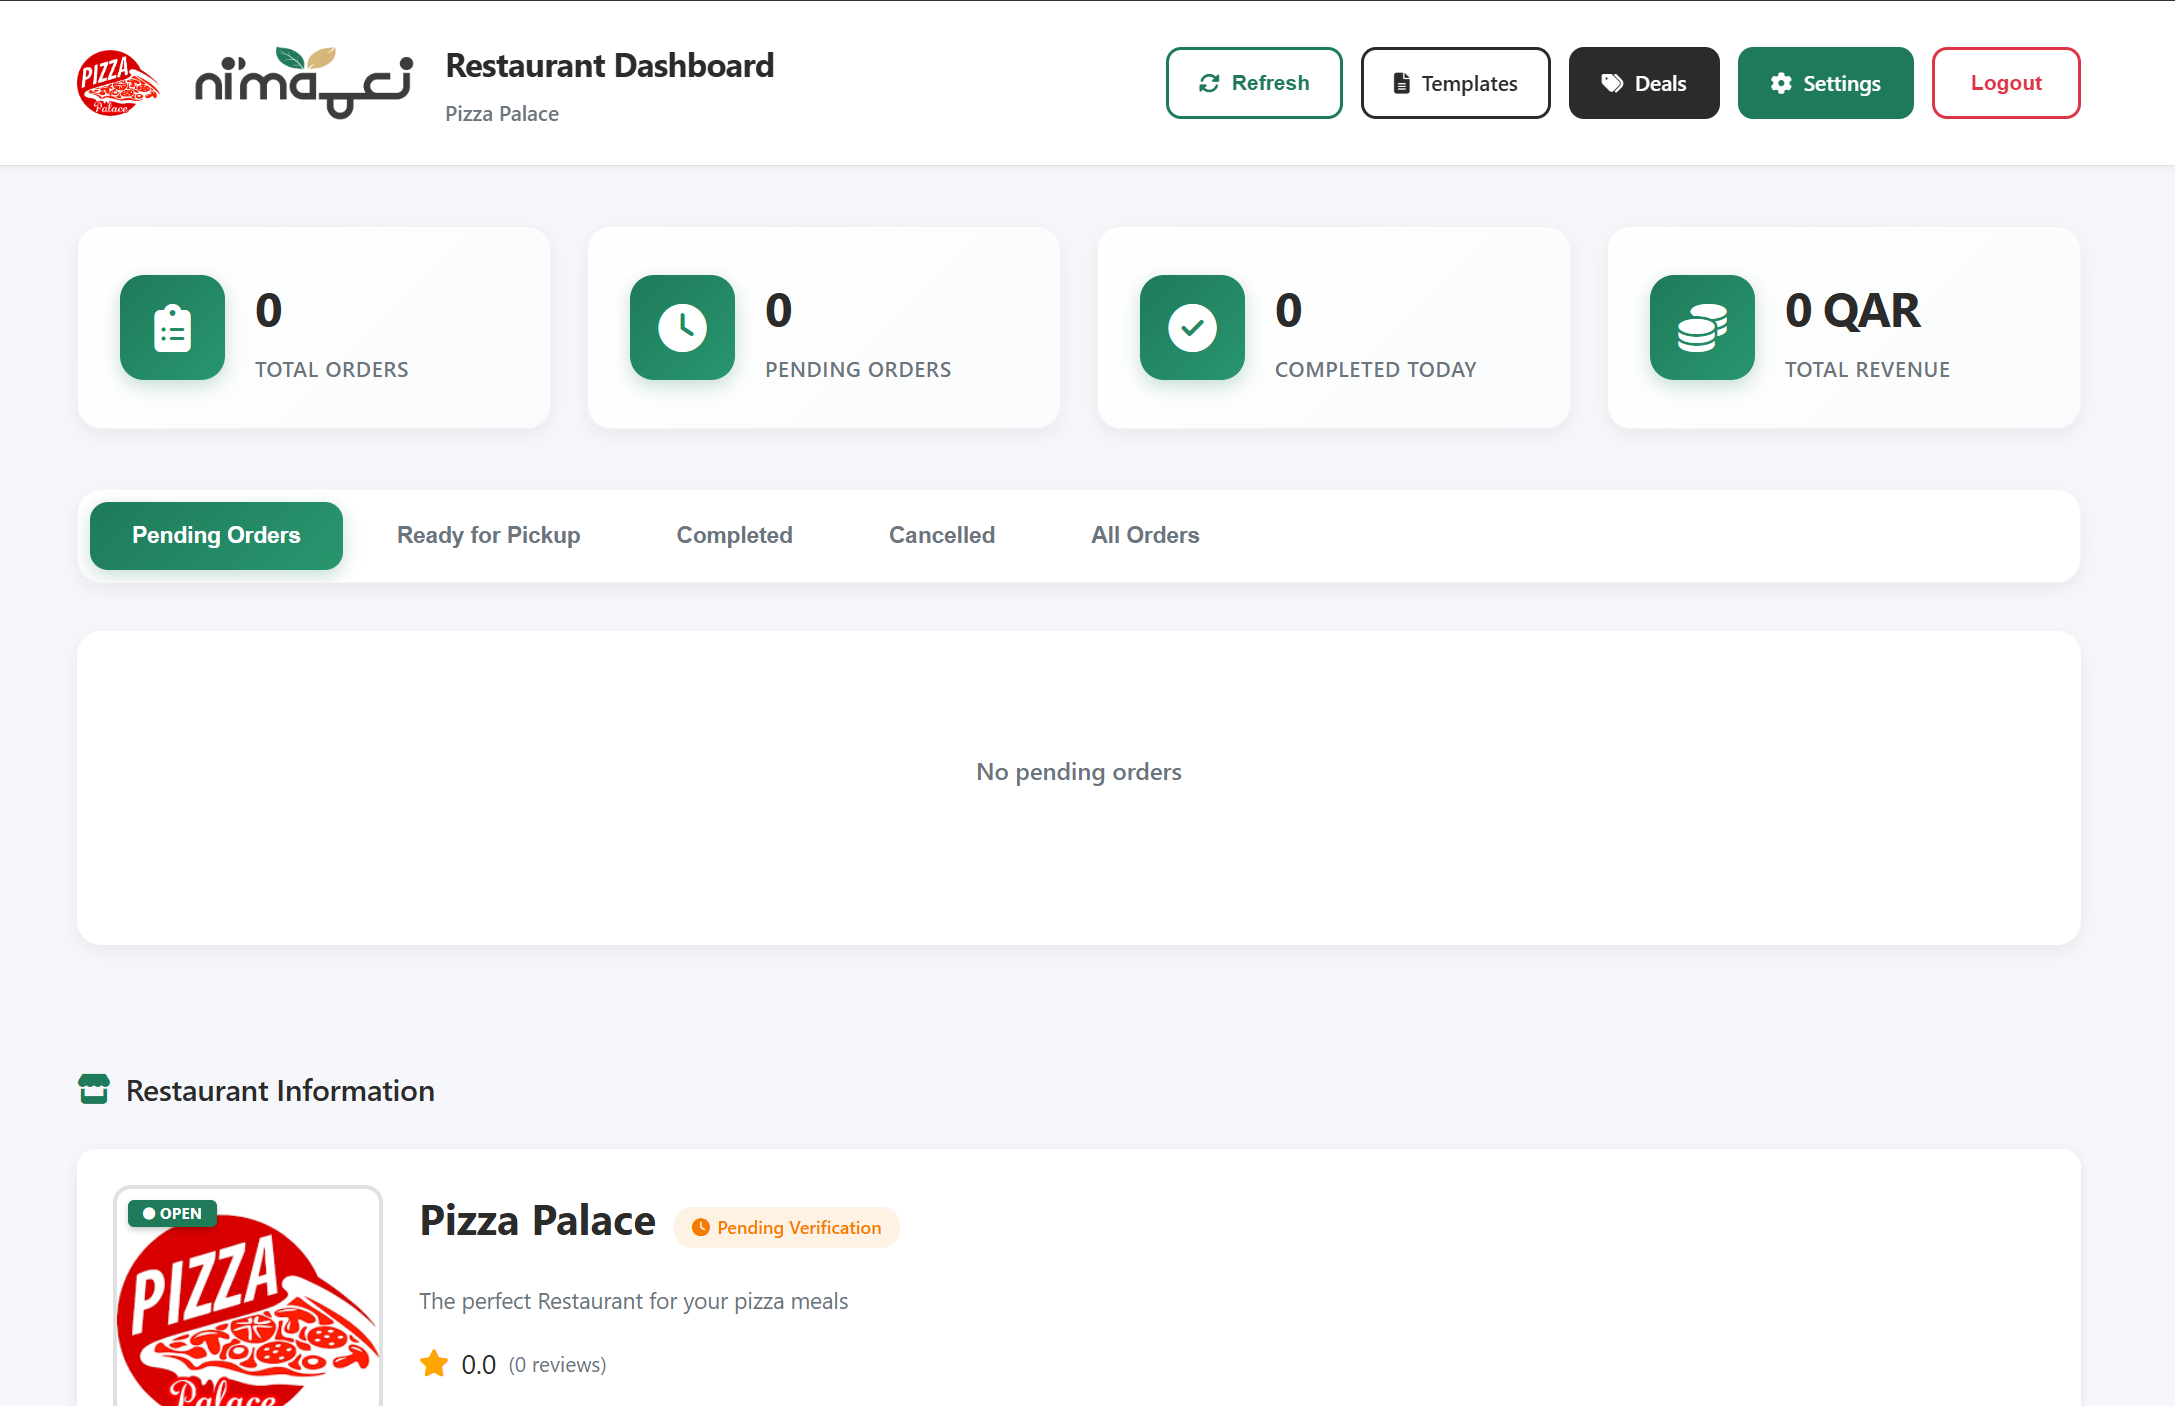
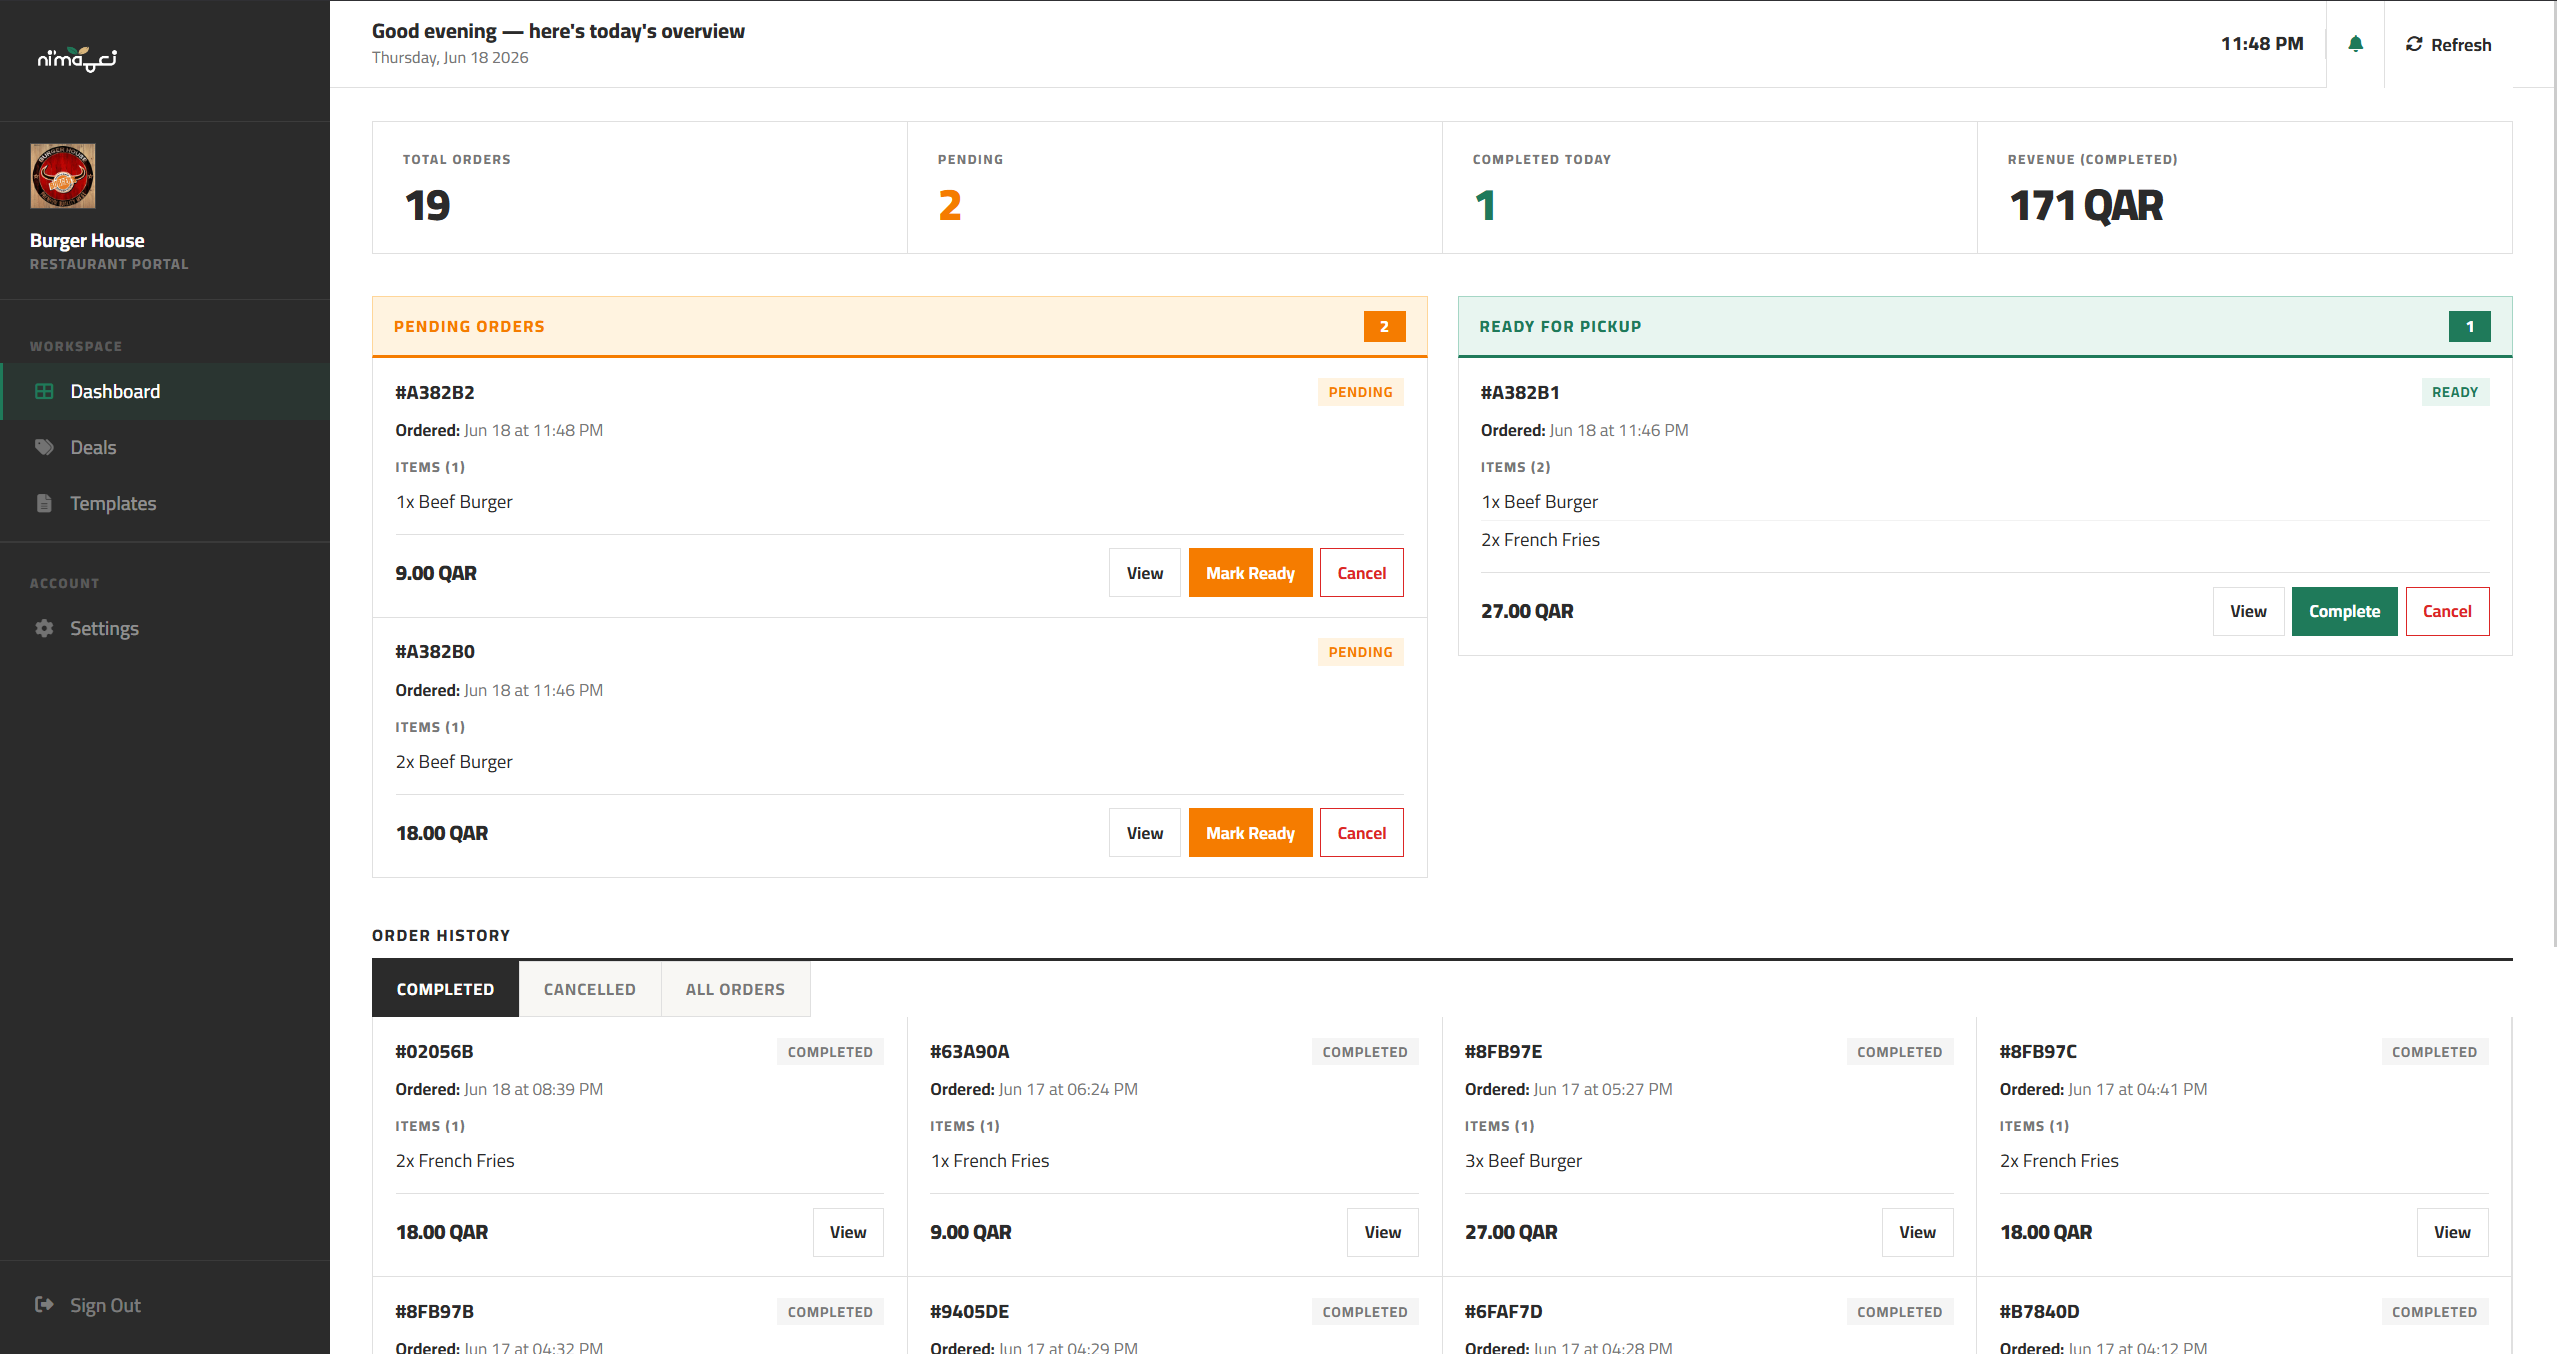
Updated nima project images

diff --git a/source/index.html b/source/index.html
@@ -281,14 +281,13 @@
                             <span class="project-date">January 2026</span>
                         </div>
                         <div class="project-images">
-                            <img src="./img/projects/nima/order-confirmation.jpeg" alt="" class="project-image" style="width: 100px;">
-                            <img src="./img/projects/nima/restaurant-screen.jpeg" alt="" class="project-image" style="width: 100px;">
-                            <img src="./img/projects/nima/orders-screen.jpeg" alt="" class="project-image" style="width: 100px;">
-                            <img src="./img/projects/nima/dashboard.png" alt="" class="project-image">
-                            <img src="./img/projects/nima/pending-orders.png" alt="" class="project-image">
-                            <img src="./img/projects/nima/active-deals.png" alt="" class="project-image">
+                            <img src="./img/projects/nima/WelcomeScreen.jpg" alt="" class="project-image" style="width: 100px;">
+                            <img src="./img/projects/nima/DealsList.jpg" alt="" class="project-image" style="width: 100px;">
+                            <img src="./img/projects/nima/OrderSuccessful.jpg" alt="" class="project-image" style="width: 100px;">
+                            <img src="./img/projects/nima/Dashboard.png" alt="" class="project-image">
+                            <img src="./img/projects/nima/Deals.png" alt="" class="project-image">
                         </div>
-                        <p class="project-detail">Ni'ma is our Start-up Idea. <strong>I developed a mobile application and Restaurant Dashboard for Ni'ma.</strong> The mobile app shows nearby restaurants using GeoJSON calculations and their surplus deals. For now, you can order Cash Only. The restaurant Dashboard provides all capabilities in order to connect with the customers.</p>
+                        <p class="project-detail">Ni'ma is our Start-up Idea. <strong>I developed a mobile application and Restaurant Dashboard for Ni'ma.</strong> The mobile app shows nearby restaurants and their surplus deals. The restaurant Dashboard provides all capabilities in order to connect with the customers.</p>
                         <div class="project-info">
                             <div class="project-info-row">
                                 <span class="info-label">Frontend:</span>
@@ -318,7 +317,7 @@
                             </div>
                             <div class="project-info-row">
                                 <span class="info-label">View:</span>
-                                <span class="info-value"><a href="https://acrobat.adobe.com/id/urn:aaid:sc:ap:1e887fd6-1255-4450-8ec2-403b74c34fa2" target="_blank" class="text-link">View Documentation</a></span>
+                                <span class="info-value"><a href="https://acrobat.adobe.com/id/urn:aaid:sc:AP:5716b27c-a4b0-4cdd-9348-5b81043c4578" target="_blank" class="text-link">View Documentation</a></span>
                             </div>
                         </div>
                     </div>